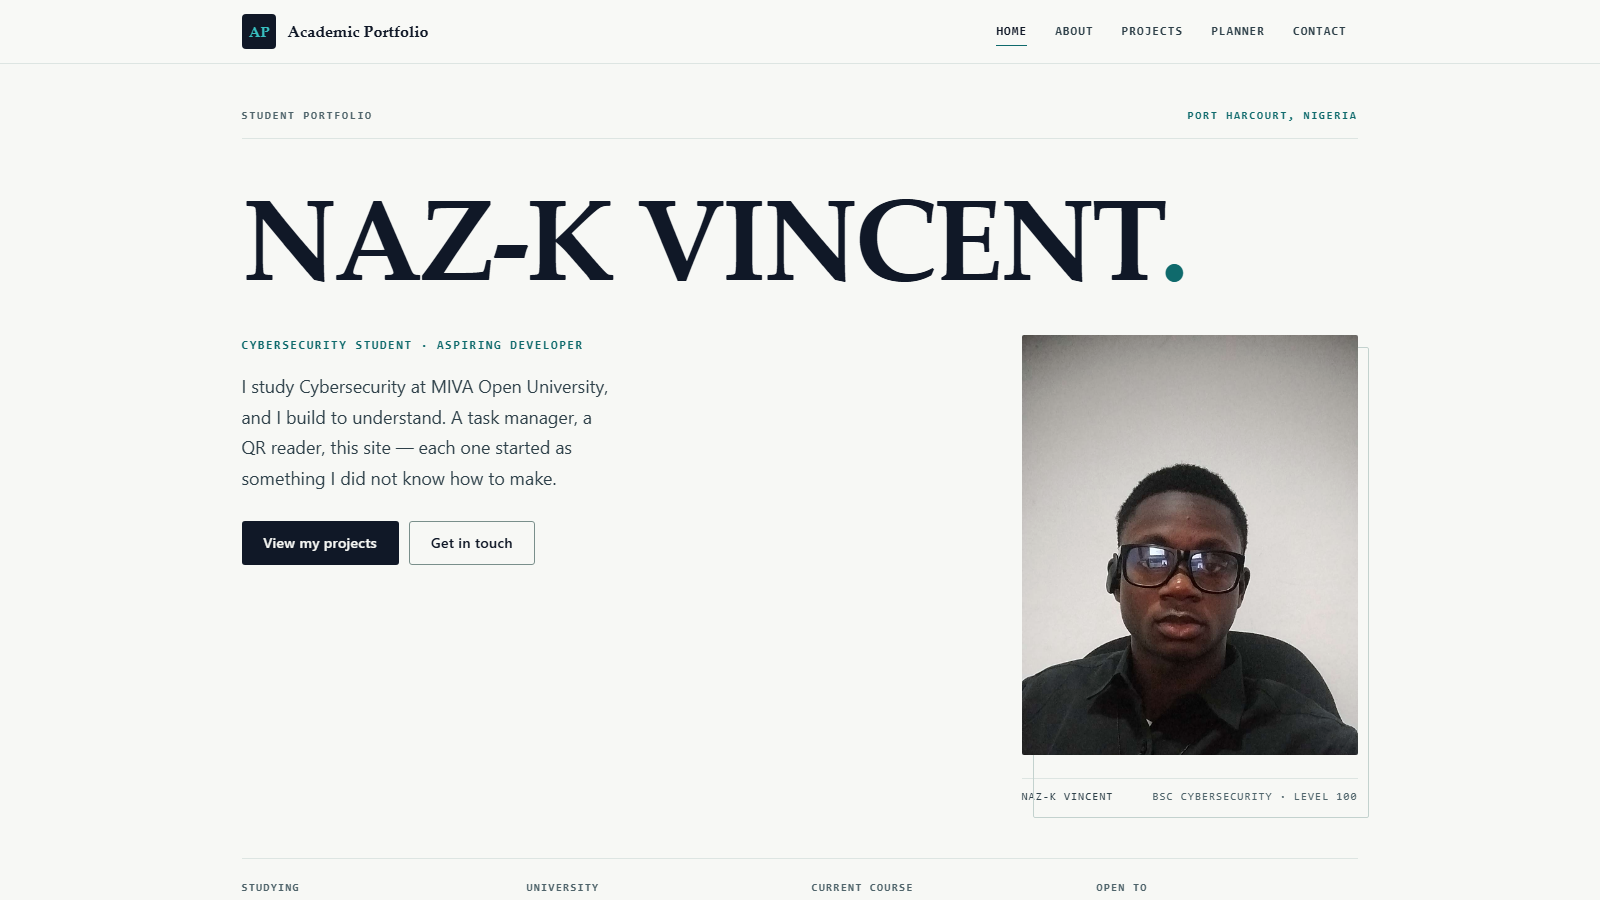
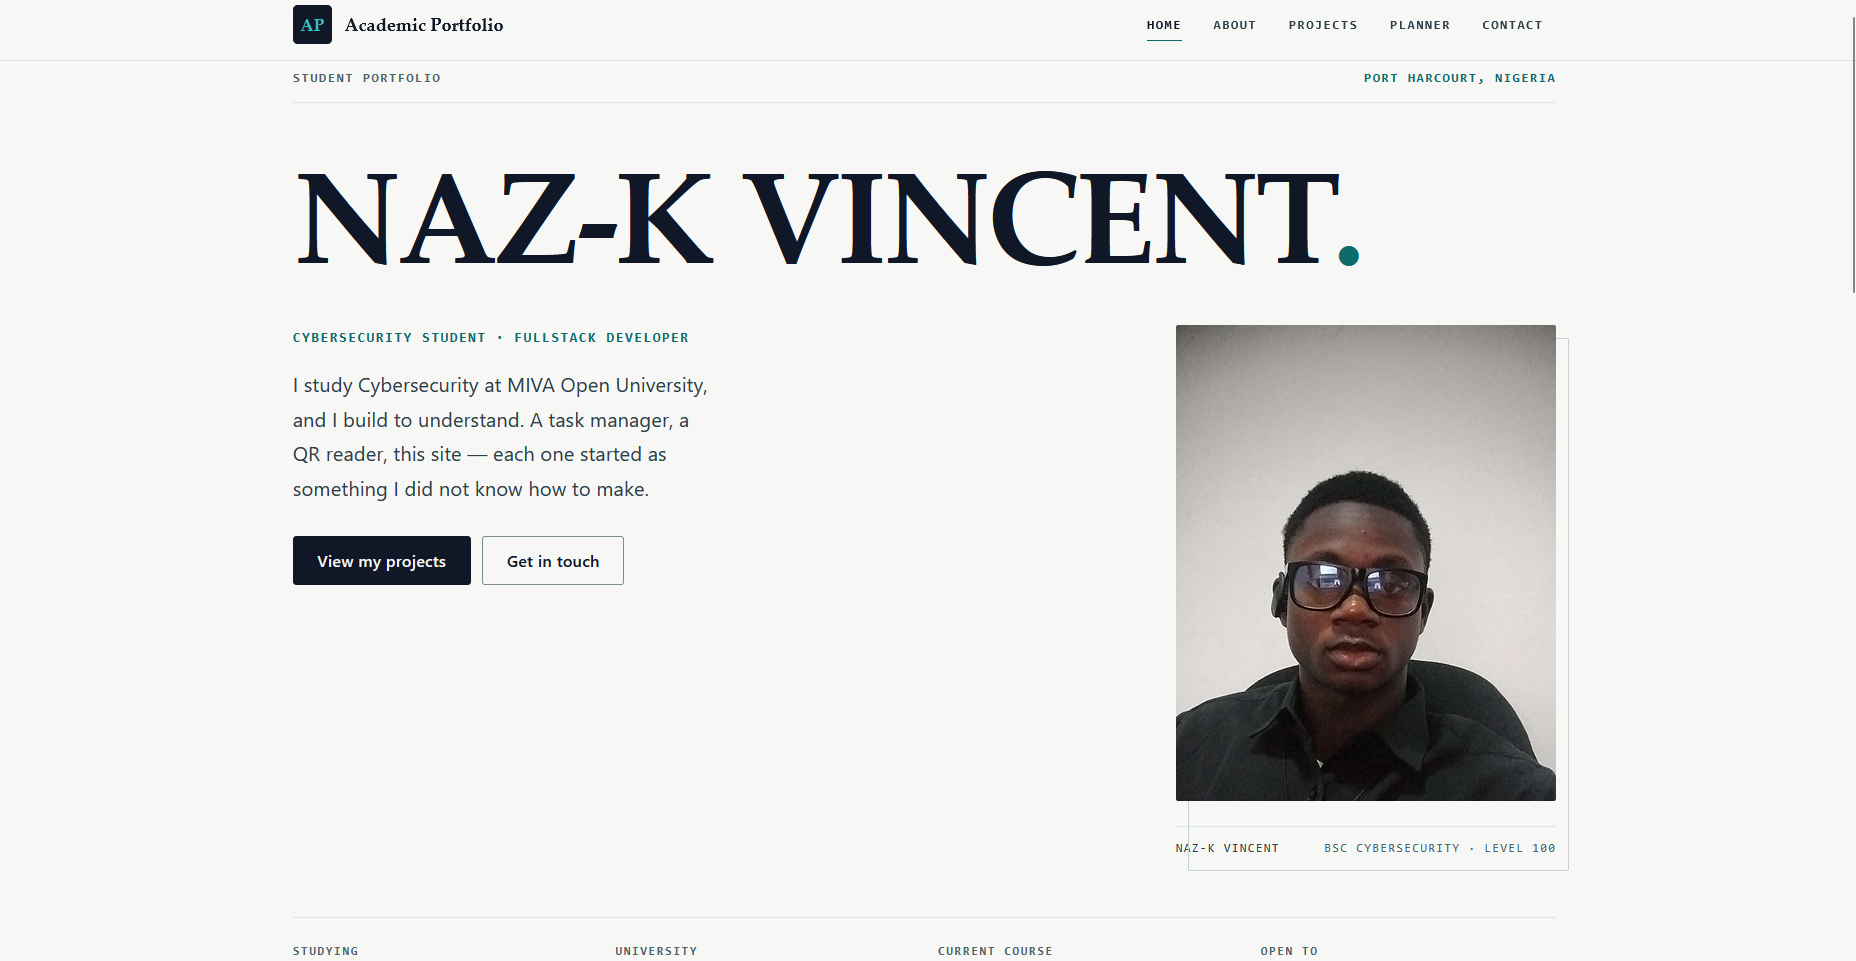
Add social link to X profile in multiple pages and update CSS for responsive design - 15/11/2026

diff --git a/about.html b/about.html
@@ -469,6 +469,14 @@
             </svg>
           </a>
         </li>
+        <li>
+          <a class="social-link" href="https://x.com/nazzy_17" target="_blank" rel="noopener noreferrer" aria-label="Visit my X profile">
+            <svg xmlns="http://www.w3.org/2000/svg" viewBox="0 0 24 24"  width="16"
+              height="16" fill="currentColor" aria-hidden="true">
+              <path d="M18.901 1.153h3.308l-7.227 8.26 8.502 11.434h-6.657l-5.214-6.817-5.967 6.817H2.336l7.73-8.835L1.91 1.153h6.826l4.713 6.231zM17.743 18.847h1.833L7.084 3.053H5.117z"/>
+            </svg>
+          </a>
+        </li>
       </ul>
     </div>
   </footer>

diff --git a/index.html b/index.html
@@ -278,6 +278,14 @@
             </svg>
           </a>
         </li>
+        <li>
+          <a class="social-link" href="https://x.com/nazzy_17" target="_blank" rel="noopener noreferrer" aria-label="Visit my X profile">
+            <svg xmlns="http://www.w3.org/2000/svg" viewBox="0 0 24 24"  width="16"
+              height="16" fill="currentColor" aria-hidden="true">
+              <path d="M18.901 1.153h3.308l-7.227 8.26 8.502 11.434h-6.657l-5.214-6.817-5.967 6.817H2.336l7.73-8.835L1.91 1.153h6.826l4.713 6.231zM17.743 18.847h1.833L7.084 3.053H5.117z"/>
+            </svg>
+          </a>
+        </li>
       </ul>
     </div>
   </footer>

diff --git a/planner.html b/planner.html
@@ -180,6 +180,14 @@
             </svg>
           </a>
         </li>
+        <li>
+          <a class="social-link" href="https://x.com/nazzy_17" target="_blank" rel="noopener noreferrer" aria-label="Visit my X profile">
+            <svg xmlns="http://www.w3.org/2000/svg" viewBox="0 0 24 24"  width="16"
+              height="16" fill="currentColor" aria-hidden="true">
+              <path d="M18.901 1.153h3.308l-7.227 8.26 8.502 11.434h-6.657l-5.214-6.817-5.967 6.817H2.336l7.73-8.835L1.91 1.153h6.826l4.713 6.231zM17.743 18.847h1.833L7.084 3.053H5.117z"/>
+            </svg>
+          </a>
+        </li>
       </ul>
     </div>
   </footer>

diff --git a/projects.html b/projects.html
@@ -244,6 +244,14 @@
             </svg>
           </a>
         </li>
+        <li>
+          <a class="social-link" href="https://x.com/nazzy_17" target="_blank" rel="noopener noreferrer" aria-label="Visit my X profile">
+            <svg xmlns="http://www.w3.org/2000/svg" viewBox="0 0 24 24"  width="16"
+              height="16" fill="currentColor" aria-hidden="true">
+              <path d="M18.901 1.153h3.308l-7.227 8.26 8.502 11.434h-6.657l-5.214-6.817-5.967 6.817H2.336l7.73-8.835L1.91 1.153h6.826l4.713 6.231zM17.743 18.847h1.833L7.084 3.053H5.117z"/>
+            </svg>
+          </a>
+        </li>
       </ul>
     </div>
   </footer>

diff --git a/css/style.css b/css/style.css
@@ -2215,6 +2215,23 @@ code {
   }
 }
 
+/* Large displays: widen the shared frame in measured steps so the full-width
+   sections stay balanced while text keeps its existing readable line limits. */
+@media (min-width: 1440px) {
+  :root {
+    --max-width: 1440px;
+    --gutter: 2.5rem;
+  }
+}
+
+@media (min-width: 2560px) {
+  :root {
+    --max-width: 1600px;
+    --gutter: 3rem;
+  }
+
+
+}
 /* Respect the visitor's operating system setting for less motion. */
 @media (prefers-reduced-motion: reduce) {
   html {
